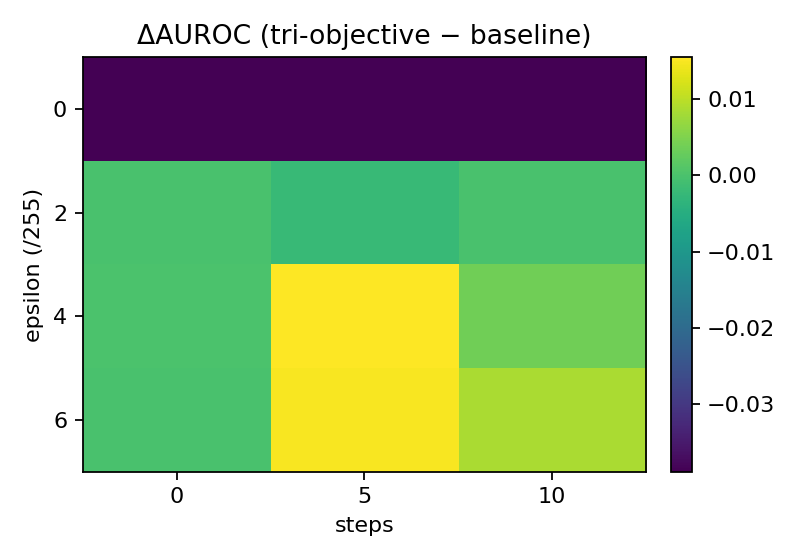
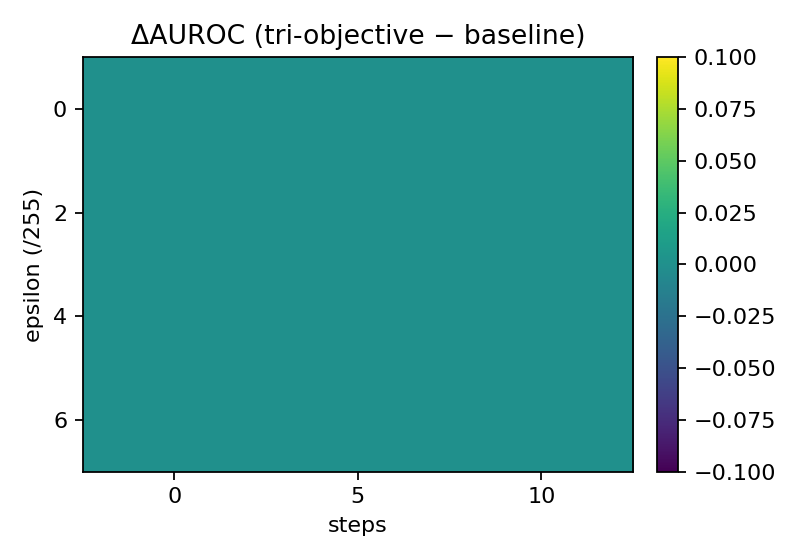
baseline(val): train NIH baseline, add robust_sweep_val.csv, export VAL figures

diff --git a/results/metrics/robust_compare_delta_table.md b/results/metrics/robust_compare_delta_table.md
@@ -1,14 +1,14 @@
 | steps | ε (/255) | AUROC_base | AUROC_tri | Δ (tri - base) |
 |-----:|---------:|-----------:|----------:|---------------:|
-| 0 | 0 | 0.619 | 0.581 | -0.039 |
-| 0 | 2 | 0.480 | 0.480 | -0.000 |
-| 0 | 4 | 0.409 | 0.409 | -0.000 |
-| 0 | 6 | 0.360 | 0.360 | -0.000 |
-| 5 | 0 | 0.619 | 0.581 | -0.039 |
-| 5 | 2 | 0.299 | 0.296 | -0.002 |
-| 5 | 4 | 0.155 | 0.171 | 0.015 |
-| 5 | 6 | 0.121 | 0.136 | 0.015 |
-| 10 | 0 | 0.619 | 0.581 | -0.039 |
-| 10 | 2 | 0.290 | 0.290 | -0.000 |
-| 10 | 4 | 0.112 | 0.116 | 0.004 |
-| 10 | 6 | 0.042 | 0.050 | 0.009 |
+| 0 | 0 | 0.560 | 0.560 | 0.000 |
+| 0 | 2 | 0.460 | 0.460 | 0.000 |
+| 0 | 4 | 0.392 | 0.392 | 0.000 |
+| 0 | 6 | 0.344 | 0.344 | 0.000 |
+| 5 | 0 | 0.560 | 0.560 | 0.000 |
+| 5 | 2 | 0.278 | 0.278 | 0.000 |
+| 5 | 4 | 0.156 | 0.156 | 0.000 |
+| 5 | 6 | 0.122 | 0.122 | 0.000 |
+| 10 | 0 | 0.560 | 0.560 | 0.000 |
+| 10 | 2 | 0.272 | 0.272 | 0.000 |
+| 10 | 4 | 0.103 | 0.103 | 0.000 |
+| 10 | 6 | 0.042 | 0.042 | 0.000 |
